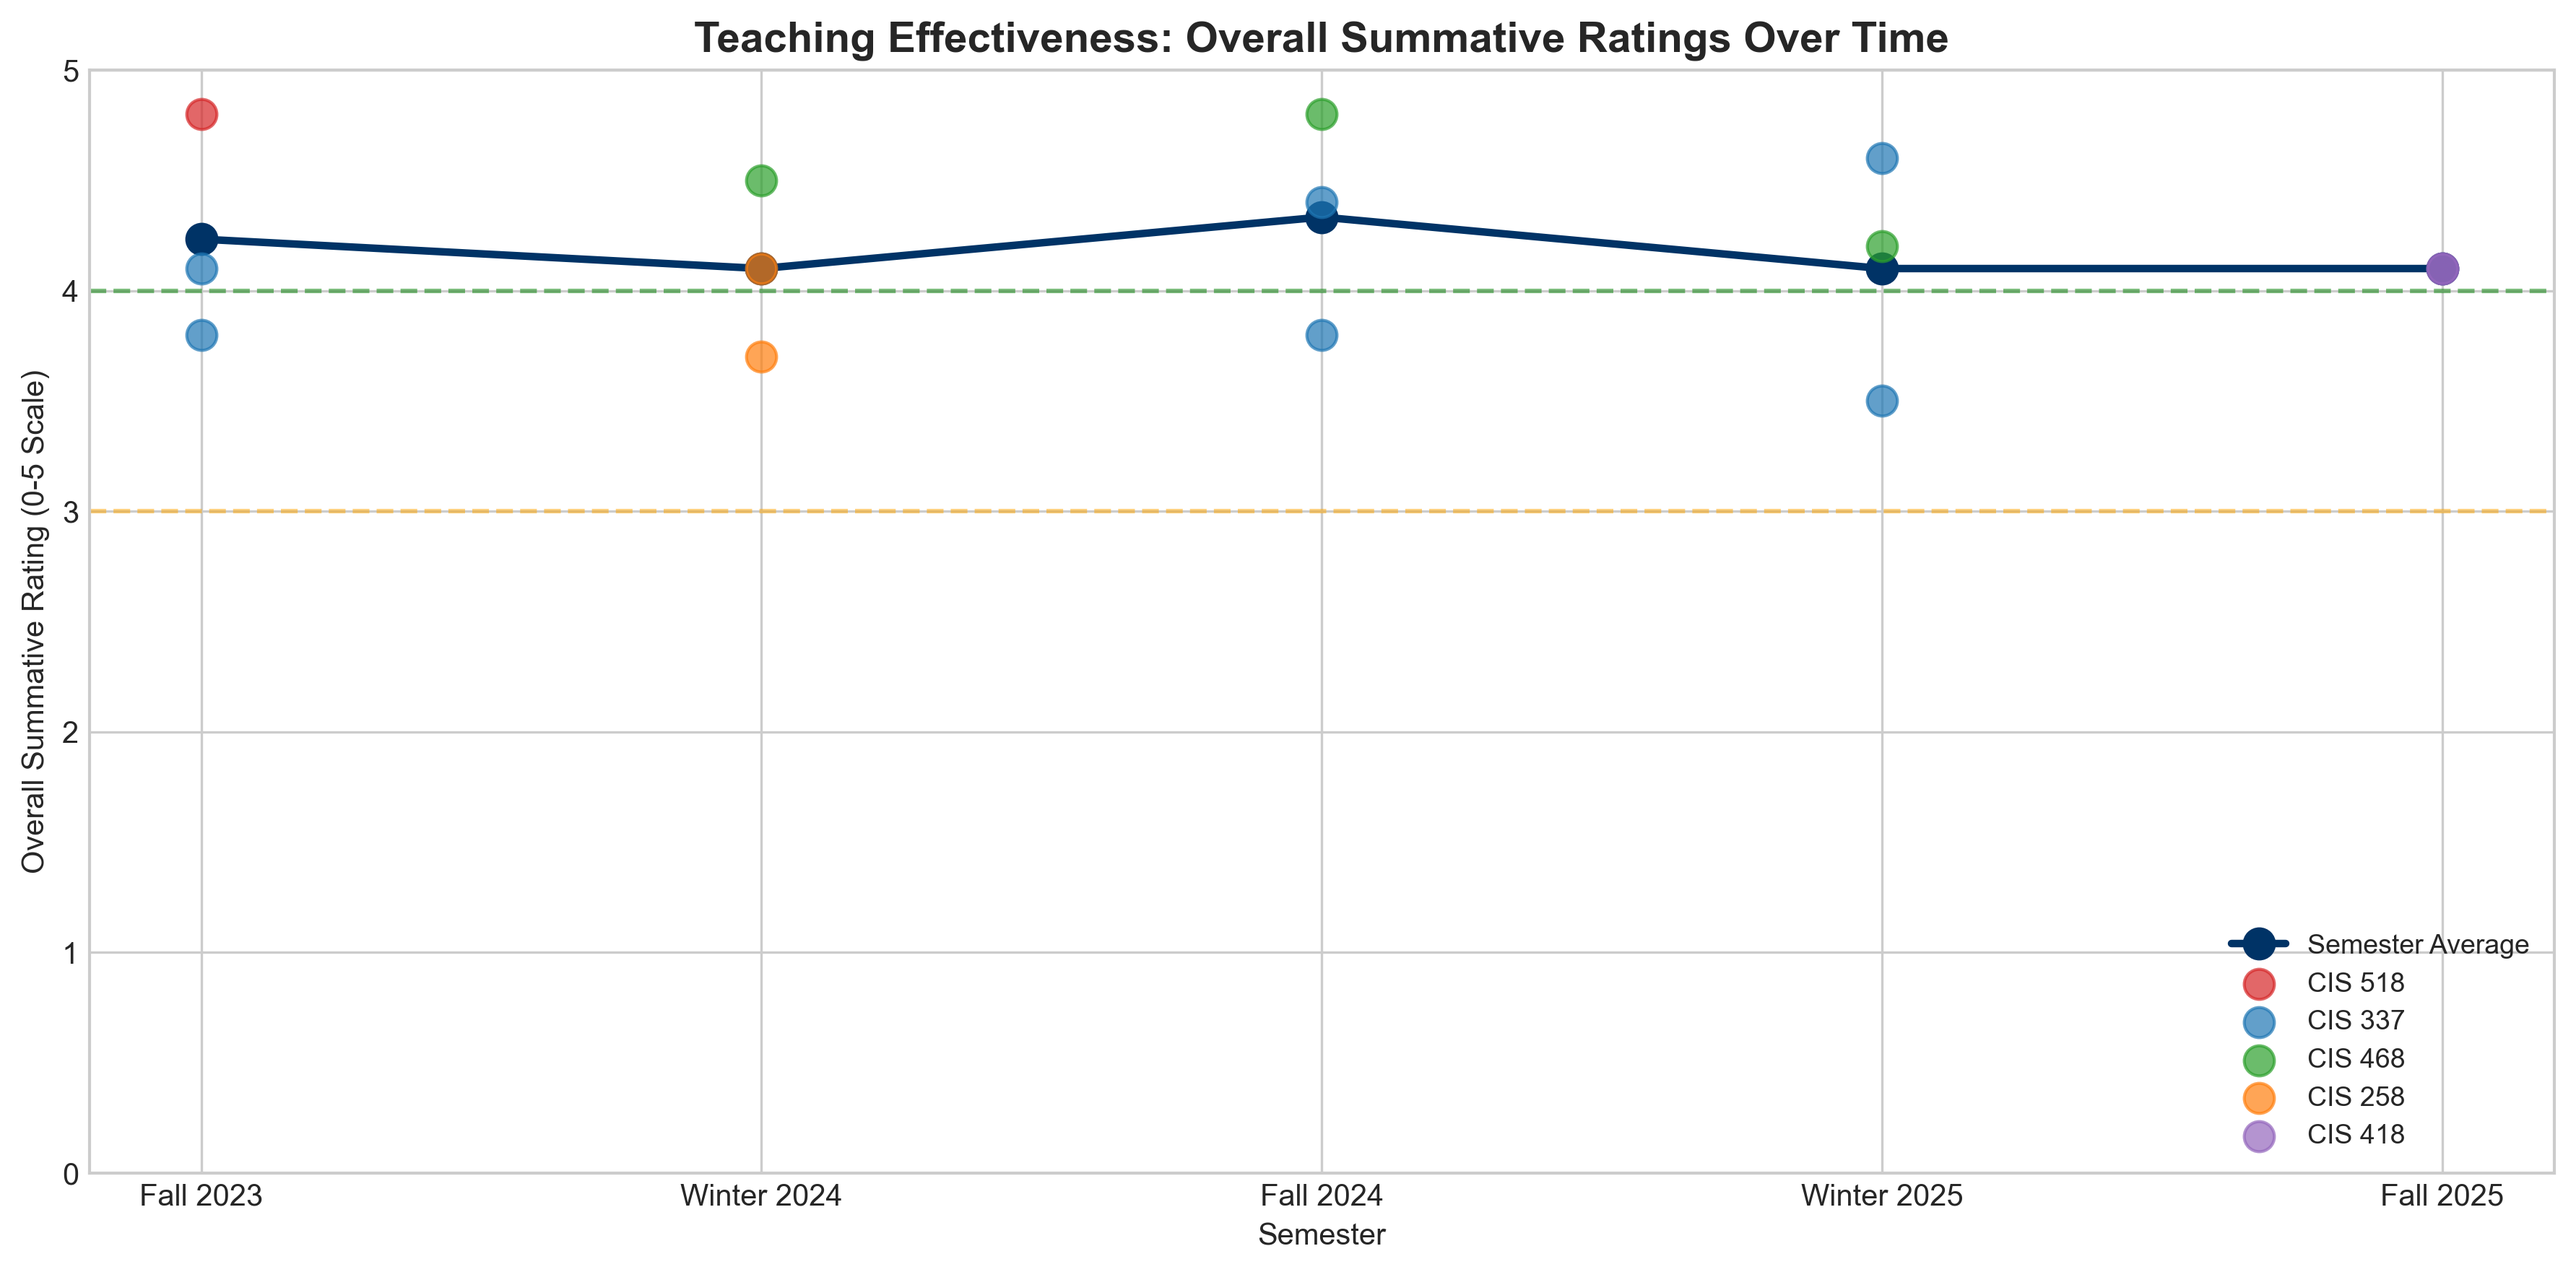
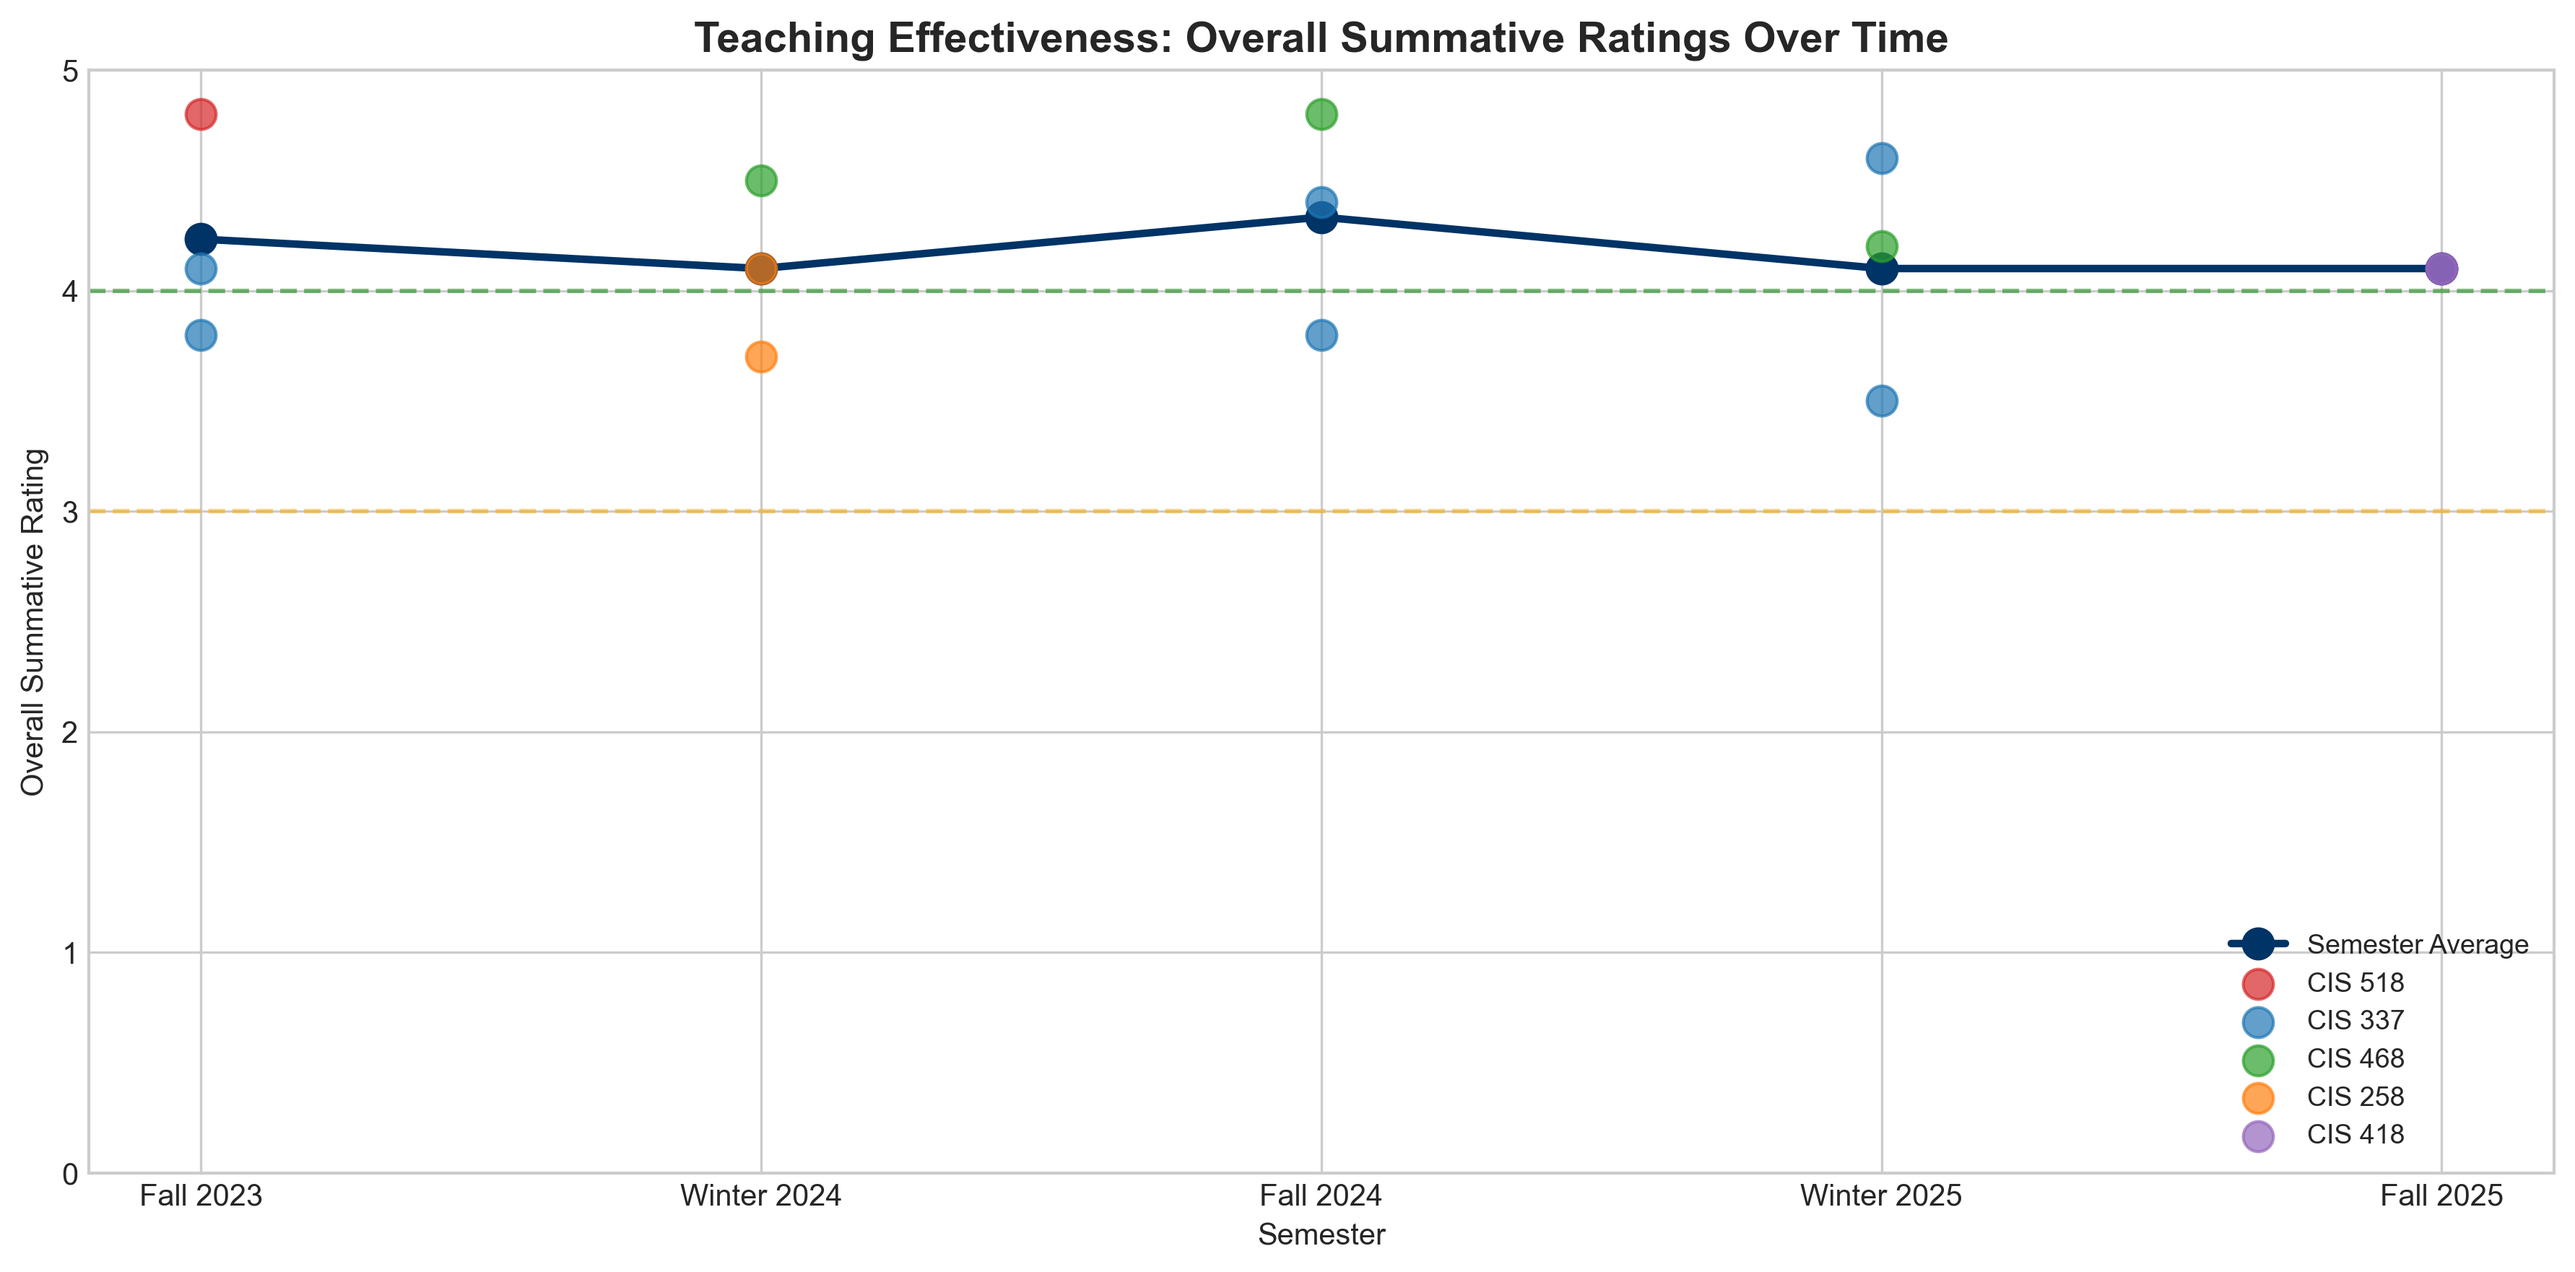
Simplify y-axis labels on evaluation figures
- Removed scale notation from y-axis labels in figures 1, 2, 3
- Changed figure 3 y-axis range from 0-7 to 1-7

Changed region(s): [[0.0, 0.3121, 0.0311, 0.6555], [0.9027, 0.7179, 0.9649, 0.9052]]

diff --git a/content/personnel-package.md b/content/personnel-package.md
@@ -275,7 +275,7 @@ I made labs more challenging and designed them to require more critical thinking
 **6. Supplementary Learning Materials (CIS 418):**
 At student request, I recorded video walkthroughs of all lab activities, effectively creating a multi-delivery experience. Students found this extremely helpful: *"Even though the professor explains everything in class, the videos on Blackboard helped a lot. If you ever forget anything or get stuck in any matter they help."* — CIS 418, Fall 2025
 
-The trajectory of my evaluations—from initial ratings around 3.8-4.1 in my first semester to consistent ratings of 4.1-4.8 in recent semesters—demonstrates my commitment to continuous improvement and responsiveness to student needs.
+The trajectory of my evaluations—from initial ratings around 3.8-4.1 in my first semester to consistent ratings of 4.1-4.8 in recent semesters—demonstrates my commitment to continuous improvement and responsiveness to student needs. Below are some visualizations of the student ratings.
 
 #### Evaluation Visualizations
 
